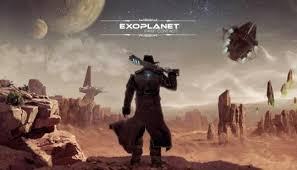
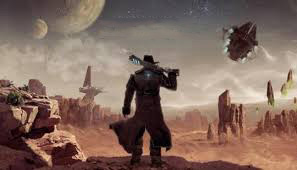
image enhanced for sm and large sm placed

Changed region(s): [[0.3333, 0.0882, 0.6667, 0.2353]]

diff --git a/styles-2.scss b/styles-2.scss
@@ -43,15 +43,13 @@ body {
 	font-family: 'Dosis', sans-serif;
 	margin: 0rem 2rem;
    .intro{
-     background-image:url('style-guide-template/src/assets/download.jpg');
+     padding-top:1rem;
+     background-image:url('style-guide-template/src/assets/Untitled-1sm.jpg');
      background-repeat: no-repeat;
-     background-size: 100% 60%;
+     background-size:100% 51%;
    }
   }
-  .summary,.preamble{
-    text-align:center;
-
-  }
+ 
 
 h1, h2, h3 { 
 	font-family: 'Alfa Slab One', serif;
@@ -62,7 +60,11 @@ h1, h2, h3 {
   h3{
     background-color: $color-2;
   }
-  .preamble,.participation,.requirements {
+  .summary,.preamble{
+    
+    color:white;
+  }
+ .participation,.requirements {
    h3{
     padding:.5em;
     padding-right:3em;

diff --git a/style.css b/style.css
@@ -12,13 +12,10 @@ body {
   margin: 0rem 2rem;
 }
 body .intro {
-  background-image: url("style-guide-template/src/assets/download.jpg");
+  padding-top: 1rem;
+  background-image: url("style-guide-template/src/assets/Untitled-1sm.jpg");
   background-repeat: no-repeat;
-  background-size: 100% 60%;
-}
-
-.summary, .preamble {
-  text-align: center;
+  background-size: 100% 51%;
 }
 
 h1, h2, h3 {
@@ -32,7 +29,11 @@ h3 {
   background-color: #633c4e;
 }
 
-.preamble h3, .participation h3, .requirements h3 {
+.summary, .preamble {
+  color: white;
+}
+
+.participation h3, .requirements h3 {
   padding: 0.5em;
   padding-right: 3em;
   text-align: right;
